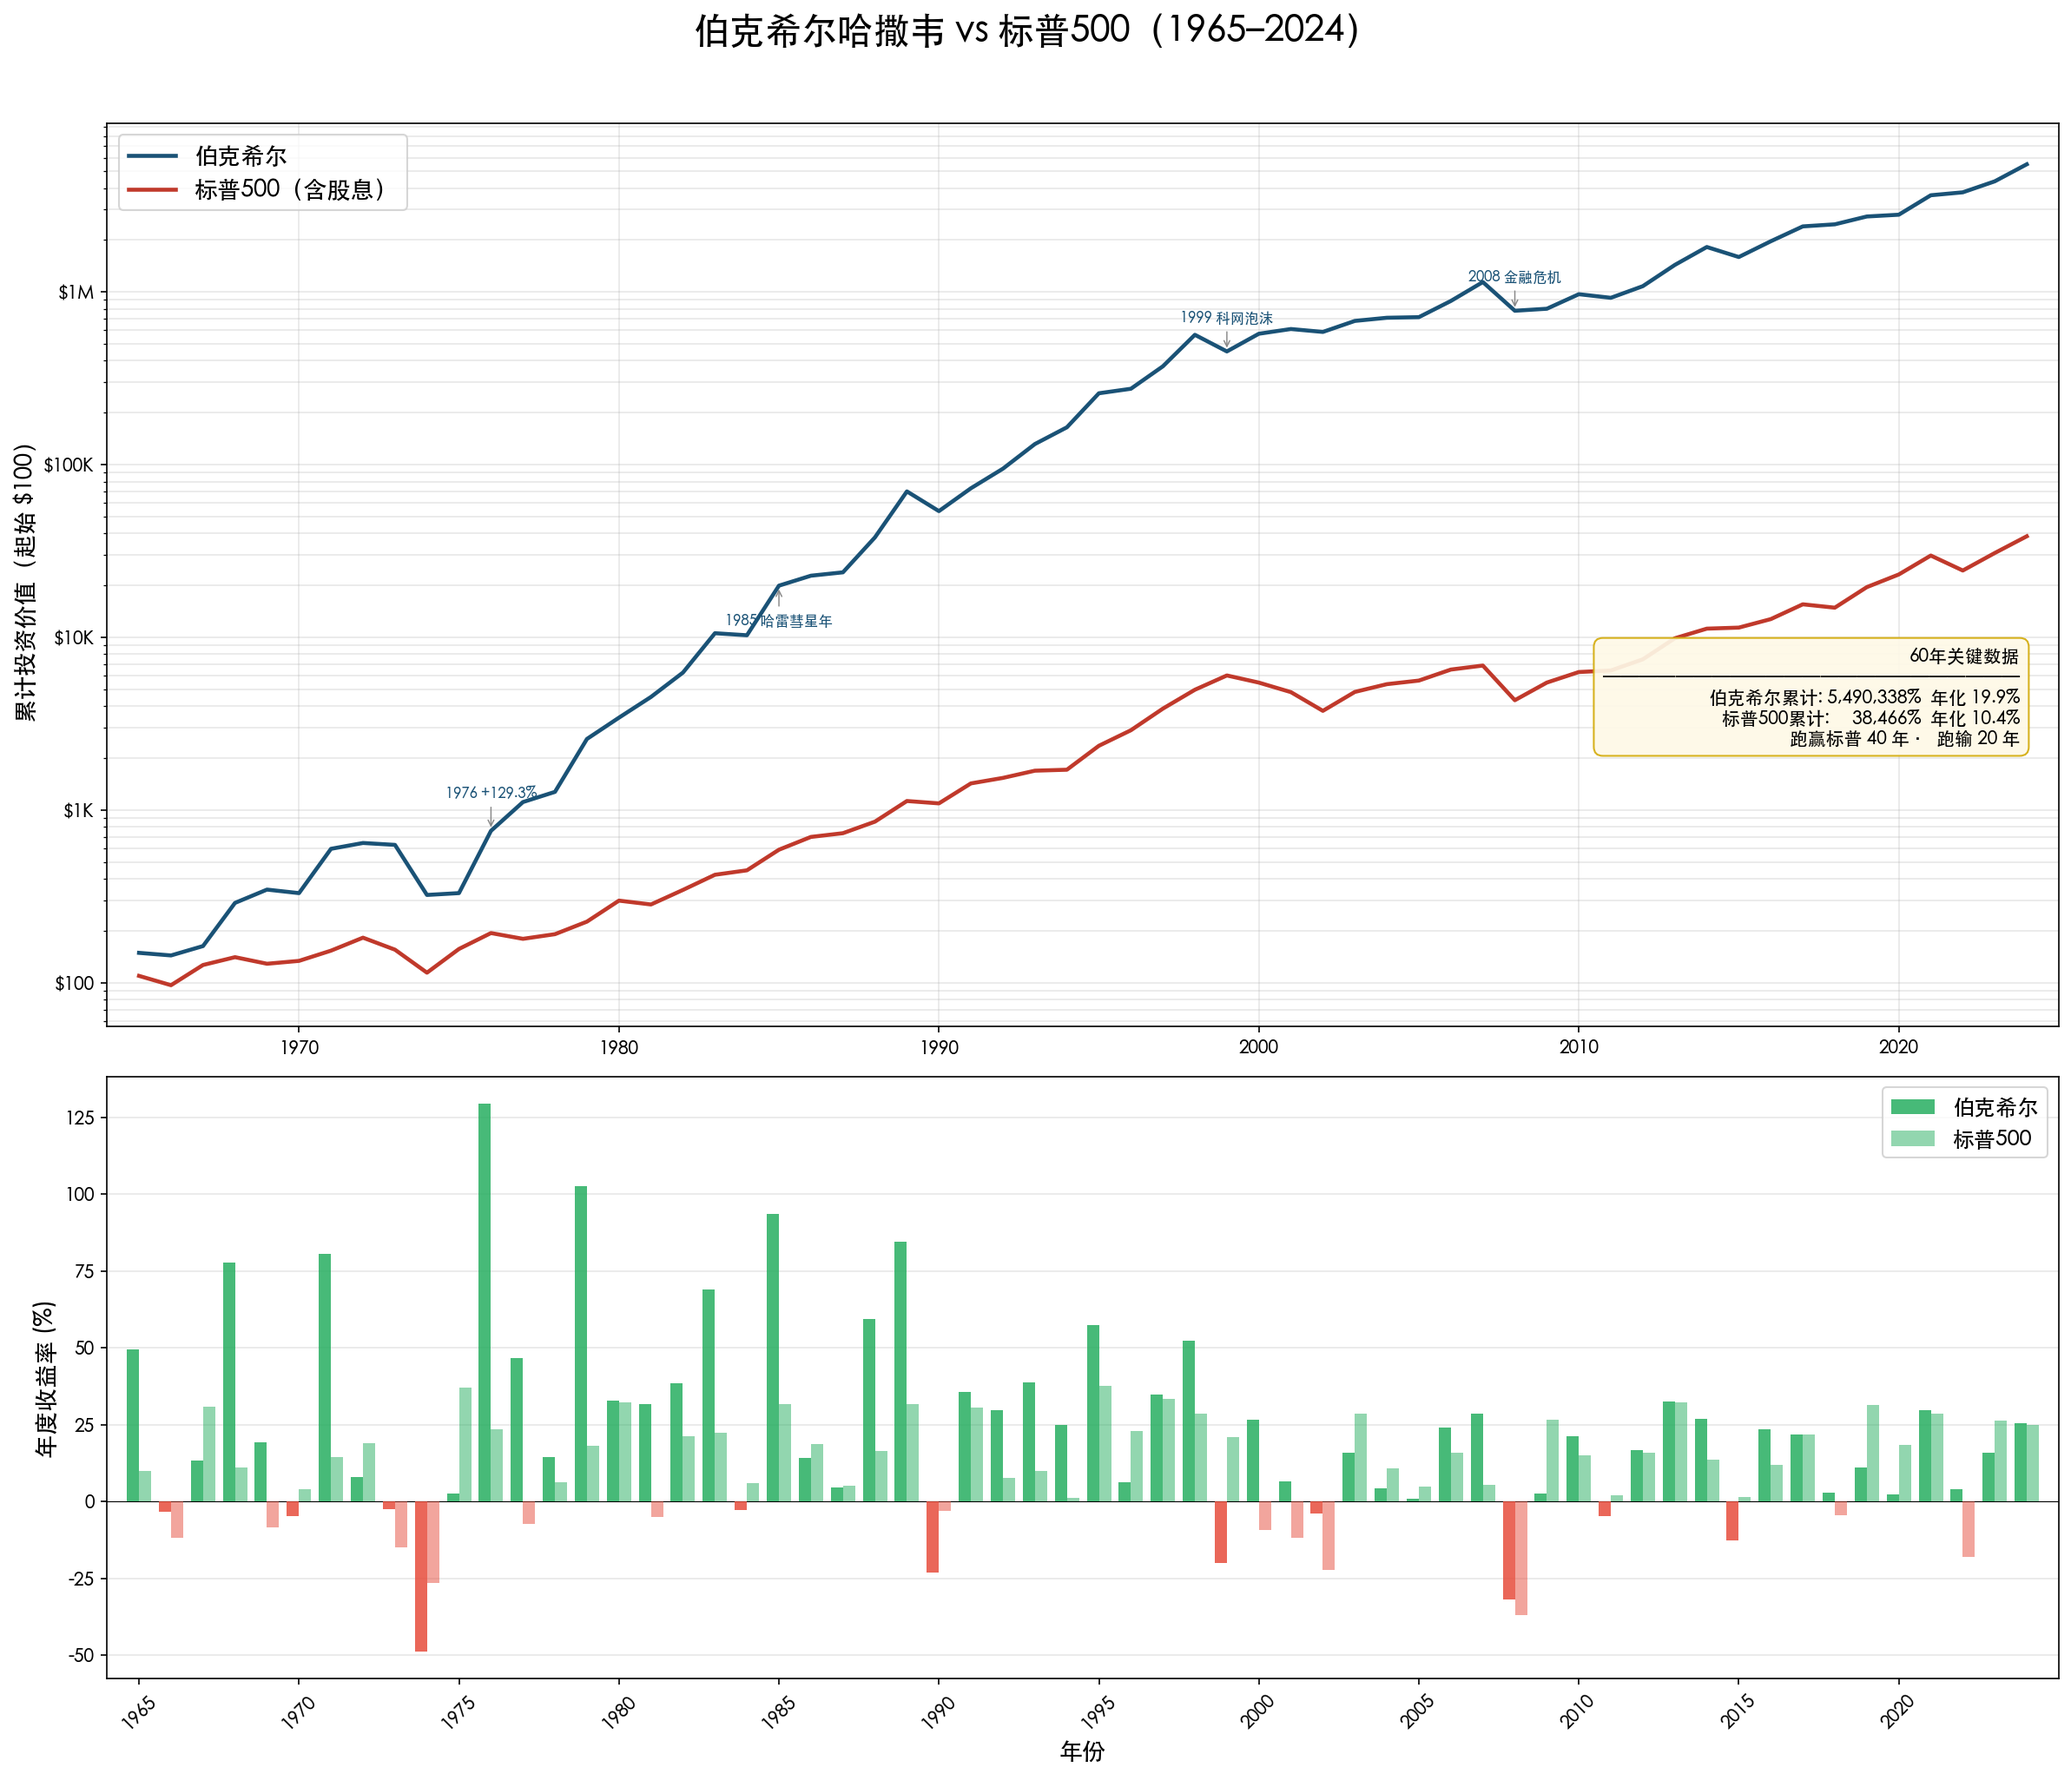
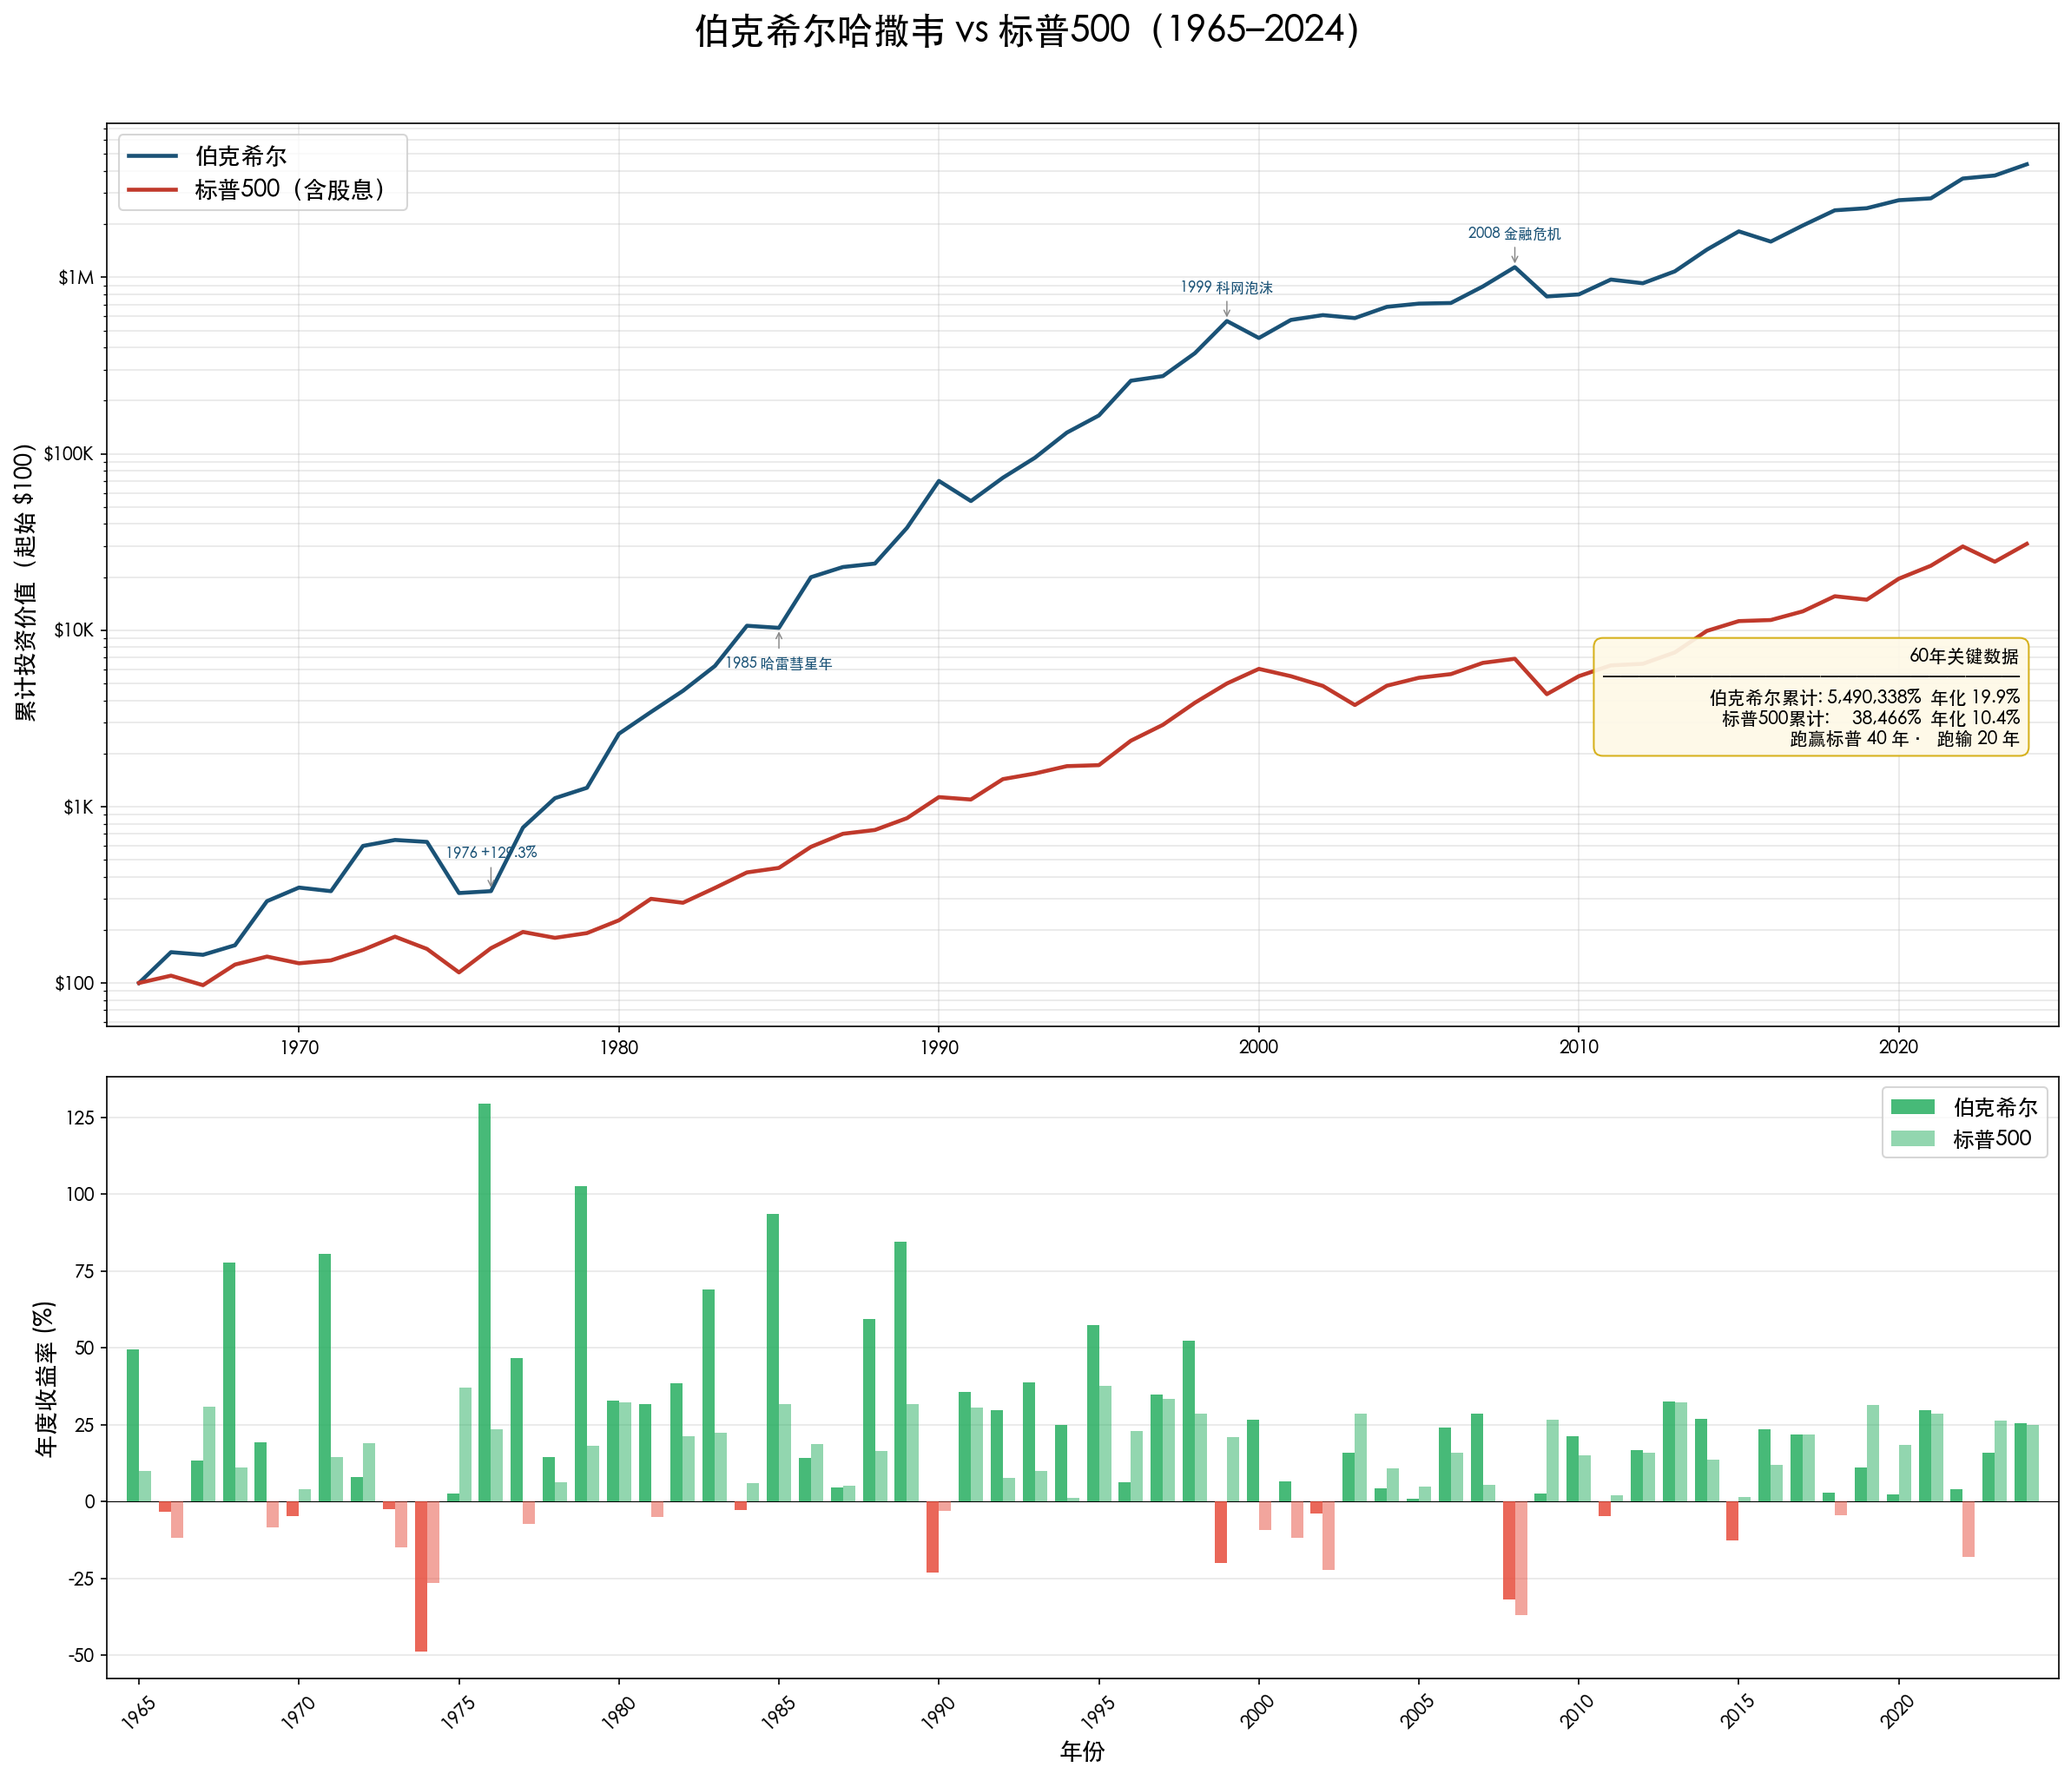
fix: 修正业绩图表归一化起点 — 两张图均从基准100开始
gen_charts.py:
- 图1(1965-2024): 原来[1:]切掉起点100，导致起点变成1966年且BRK=149.5 vs SNP=110.0
  修复为[:-1]，保留1965年起点=100，两条线正确归一化
- 图2(1957-1969): 同样问题，一并修复

重新生成了两张PNG。

diff --git a/scripts/gen_charts.py b/scripts/gen_charts.py
@@ -37,7 +37,7 @@ brk_idx, snp_idx = [100], [100]
 for b, s in zip(brk_pct, snp_pct):
     brk_idx.append(brk_idx[-1] * (1 + b / 100))
     snp_idx.append(snp_idx[-1] * (1 + s / 100))
-brk_idx, snp_idx = brk_idx[1:], snp_idx[1:]
+brk_idx, snp_idx = brk_idx[:-1], snp_idx[:-1]   # 60个元素，对齐1965-2024
 
 fig, (ax1, ax2) = plt.subplots(
     2, 1, figsize=(16, 14),
@@ -131,7 +131,7 @@ for f, d, l in zip(fund_pct, dow_pct, lp_pct):
     fund_idx.append(fund_idx[-1] * (1 + f/100))
     dow_idx.append(dow_idx[-1]  * (1 + d/100))
     lp_idx.append(lp_idx[-1]    * (1 + l/100))
-fund_idx, dow_idx, lp_idx = fund_idx[1:], dow_idx[1:], lp_idx[1:]
+fund_idx, dow_idx, lp_idx = fund_idx[:-1], dow_idx[:-1], lp_idx[:-1]  # 13个元素，对齐1957-1969
 
 fig, (ax1, ax2) = plt.subplots(
     2, 1, figsize=(14, 12),
